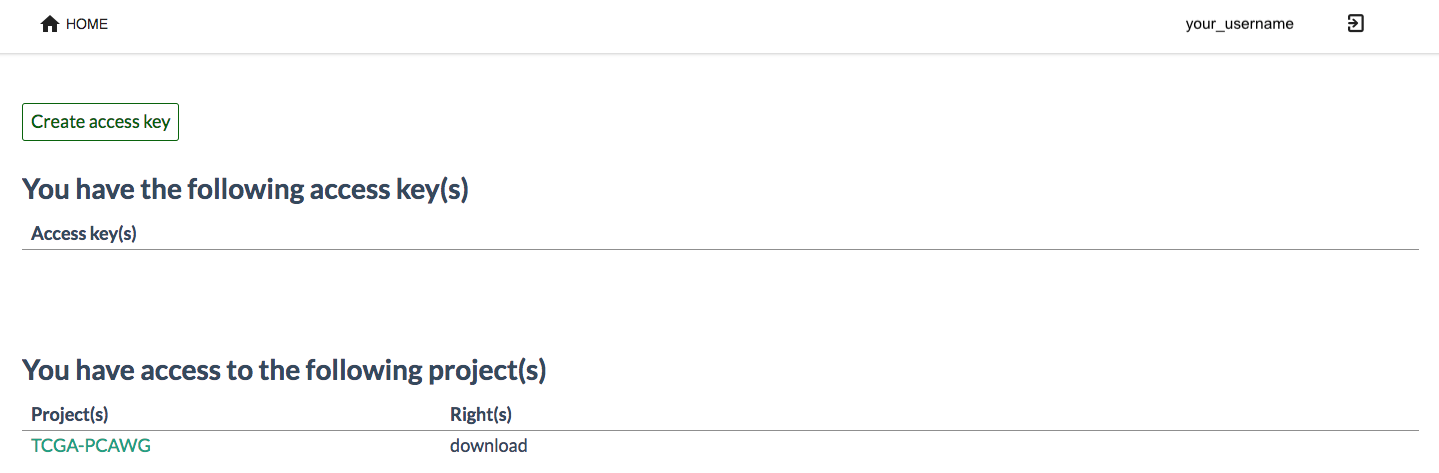
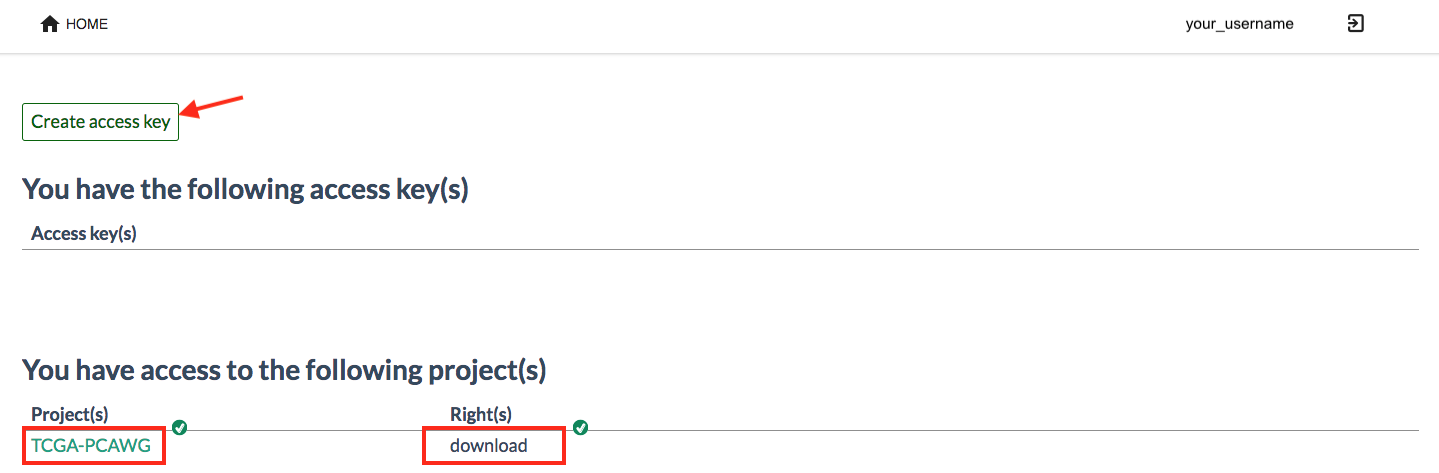
updates

diff --git a/docs/download/downloading_data.md b/docs/download/downloading_data.md
@@ -120,10 +120,10 @@ The European Genome-Phenome Archive ([EGA](https://ega-archive.org/)) is co-mana
 
 #### Download Data Instructions
 
-1. Find your data of interest at https://dcc.icgc.org/repositories (click on 'EGA'  repository). Click on "Download Files" and download manifest file.
+1. Find your data of interest at [https://dcc.icgc.org/repositories](https://dcc.icgc.org/repositories) (click on `EGA` repository). Click on `Download Files` and download manifest file.
     ![Download-EGA-Manifest](images/download-ega-manifest.png)
 
-2. The downloaded manifest file is actually a shell script and you will need to edit some variables in it before running the script
+2\. The downloaded manifest file is actually a shell script and you will need to edit some variables in it before running the script
     - enter your EGA username
     - enter your EGA password
     - enter the directory you want to download files to
@@ -148,7 +148,7 @@ output_dir=/home/ega_downloads
 bin_dir=/home/ega_download_tool/
 ```
 
-3. Run script
+3\. Run manifest script
 
 ```
 ./manifest.ega.1554736977052.sh
@@ -157,9 +157,7 @@ bin_dir=/home/ega_download_tool/
 
 ## Downloading data from PDC repository
 
-The Bionimbus Protected Data Cloud (PDC) is a secure biomedical cloud operated at FISMA moderate as IaaS with an NIH Trusted Partner status for analyzing and sharing protected datasets. The Bionimbus PDC is a collaboration between the University of Chicago Center for Data Intensive Science (CDIS) and the Open Commons Consortium (OCC). The Bionimbus PDC allows users authorized by NIH to compute over human genomic data in a secure compliant fashion.
-
-It is a secure data cloud that stores US [PCAWG](https://dcc.icgc.org/pcawg) data.
+The Bionimbus Protected Data Cloud (PDC) is a secure biomedical cloud operated at FISMA moderate as IaaS with an NIH Trusted Partner status for analyzing and sharing protected datasets. The Bionimbus PDC is a collaboration between the University of Chicago Center for Data Intensive Science (CDIS) and the Open Commons Consortium (OCC). The Bionimbus PDC allows users authorized by NIH to compute over human genomic data in a secure compliant fashion. It is a secure data cloud that stores US [PCAWG](https://dcc.icgc.org/pcawg) data.
 
 | Property             | Value                                                                                                                                   |
 | :------------------- | --------------------------------------------------------------------------------------------------------------------------------------- |
@@ -177,7 +175,7 @@ It is a secure data cloud that stores US [PCAWG](https://dcc.icgc.org/pcawg) dat
 
 1. Obtain dbGaP access and an NIH eRA Commons account (refer to instructions [here](https://gdc.cancer.gov/access-data/obtaining-access-controlled-data))
 2. Download [AWS CLI](https://docs.aws.amazon.com/cli/latest/userguide/cli-chap-install.html)
-3. The data in the PDC can be accessed using the AWS CLI. Once you are approved by dbGaP, you will need to obtain your PDC keys to configure AWS CLI. To get these keys, click on "Login from NIH" on this page: https://bionimbus-pdc.opensciencedatacloud.org/datasets
+3. The data in the PDC can be accessed using the AWS CLI. Once you are approved by dbGaP, you will need to obtain your PDC keys to configure AWS CLI. To get these keys, click on `Login from NIH` on this page: [https://bionimbus-pdc.opensciencedatacloud.org/datasets](https://bionimbus-pdc.opensciencedatacloud.org/datasets)
 
     ![Bionumbus-Page](images/bionimbus-page.png)
 
@@ -185,11 +183,11 @@ It is a secure data cloud that stores US [PCAWG](https://dcc.icgc.org/pcawg) dat
 
     ![NIH-iTrust-login](images/NIH-iTrust-login.png)
 
-5. After you have successfully logged in, you will be redirected back to PDC where you can create an access key. If you see "TCGA-PCAWG" in the project list and you have "downlod" rights, you can proceed with generating an access key. Click on "Create access key" button. A popup will show you the new access key and secret key.
+5. After you have successfully logged in, you will be redirected back to PDC where you can create an access key. If you see `TCGA-PCAWG` in the project list and you have `download` rights, you can proceed with generating an access key. Click on `Create access key` button. A popup will show you the new access key and secret key.
 
     ![Example-PDC-Keys](images/example-pdc-keys.png)
 
-7. Copy these keys and add them to your awscli credentials file, which depending on your system, is usually at: ~/.aws/credentials. The aws credentials file may look like this. Please edit it to include your own key ID and secret key
+6\. Copy these keys and add them to your awscli credentials file, which depending on your system, is usually at: `~/.aws/credentials`. The aws credentials file may look like this. Please edit it to include your own key ID and secret key
 
 ```
 [pdc]
@@ -205,7 +203,7 @@ You can also run `aws configure` and follow the prompts.
 1. Find your data of interest in the [Data Repository](https://dcc.icgc.org/repositories) by selecting `PDC` repository. Click on "Download Files" and download manifest file.
     ![Download-PDC-Manifest](images/download-pdc-manifest.png)
 
-2. The manifest file that you downloaded from ICGC Data Portal for PDC is actually a shell script containing aws cli commands, one line per file. Here's an example
+2\. The manifest file that you downloaded from ICGC Data Portal for PDC is actually a shell script containing aws cli commands, one line per file. Here's an example
 ```
 aws --profile pdc --endpoint-url https://bionimbus-objstore-cs.opensciencedatacloud.org s3 cp s3://pcawg-tcga-lihc-us/230e20d7-38da-5aa0-89ac-071bd509cd53 .
 ```
@@ -225,11 +223,14 @@ Amazon cloud service containing ICGC data.
 | Download Client  | [Tarball](/software/download/#score-client), [Docker](https://hub.docker.com/r/overture/score/) |
 | Repo Code        | `aws-virginia`                                                                                                                          |
 
+---
+<span style="color:blue">NOTE: In order to download data from AWS, the score-client tool must run in the same environment as the object storage system. That means you will need your own AWS account to provision a running EC2 instance and the Score Client must run on an AWS VM in the N. Virginia availability zone.</span>
+---
+
 #### Prerequisites
 
 1. [Apply for DACO access](https://github.com/icgc-dcc/dcc-docs/blob/download-doc-update/docs/download/data-access.md#apply-for-access-to-controlled-data). Once you are approved by DACO, you will recieve an email from EGA about setting up your password. If you already had an EGA account from before, you will use the same username/password to access ICGC controlled data at EGA.
 
-    <span style="color:blue">NOTE: In order to download data from AWS, the score-client tool must run in the same environment as the object storage system. That means you will need your own AWS account to provision a running EC2 instance and the Score Client must run on an AWS VM in the N. Virginia availability zone.</span>
 
 2. Set up EC2 instance in AWS. Any data processing will be charged to this account. Note that ICGC data download from S3 to the same EC2 region is free of charge. Please see Amazon's documentation for detailed instructions. Ensure that you are running within the `us-east-1` region.
 
